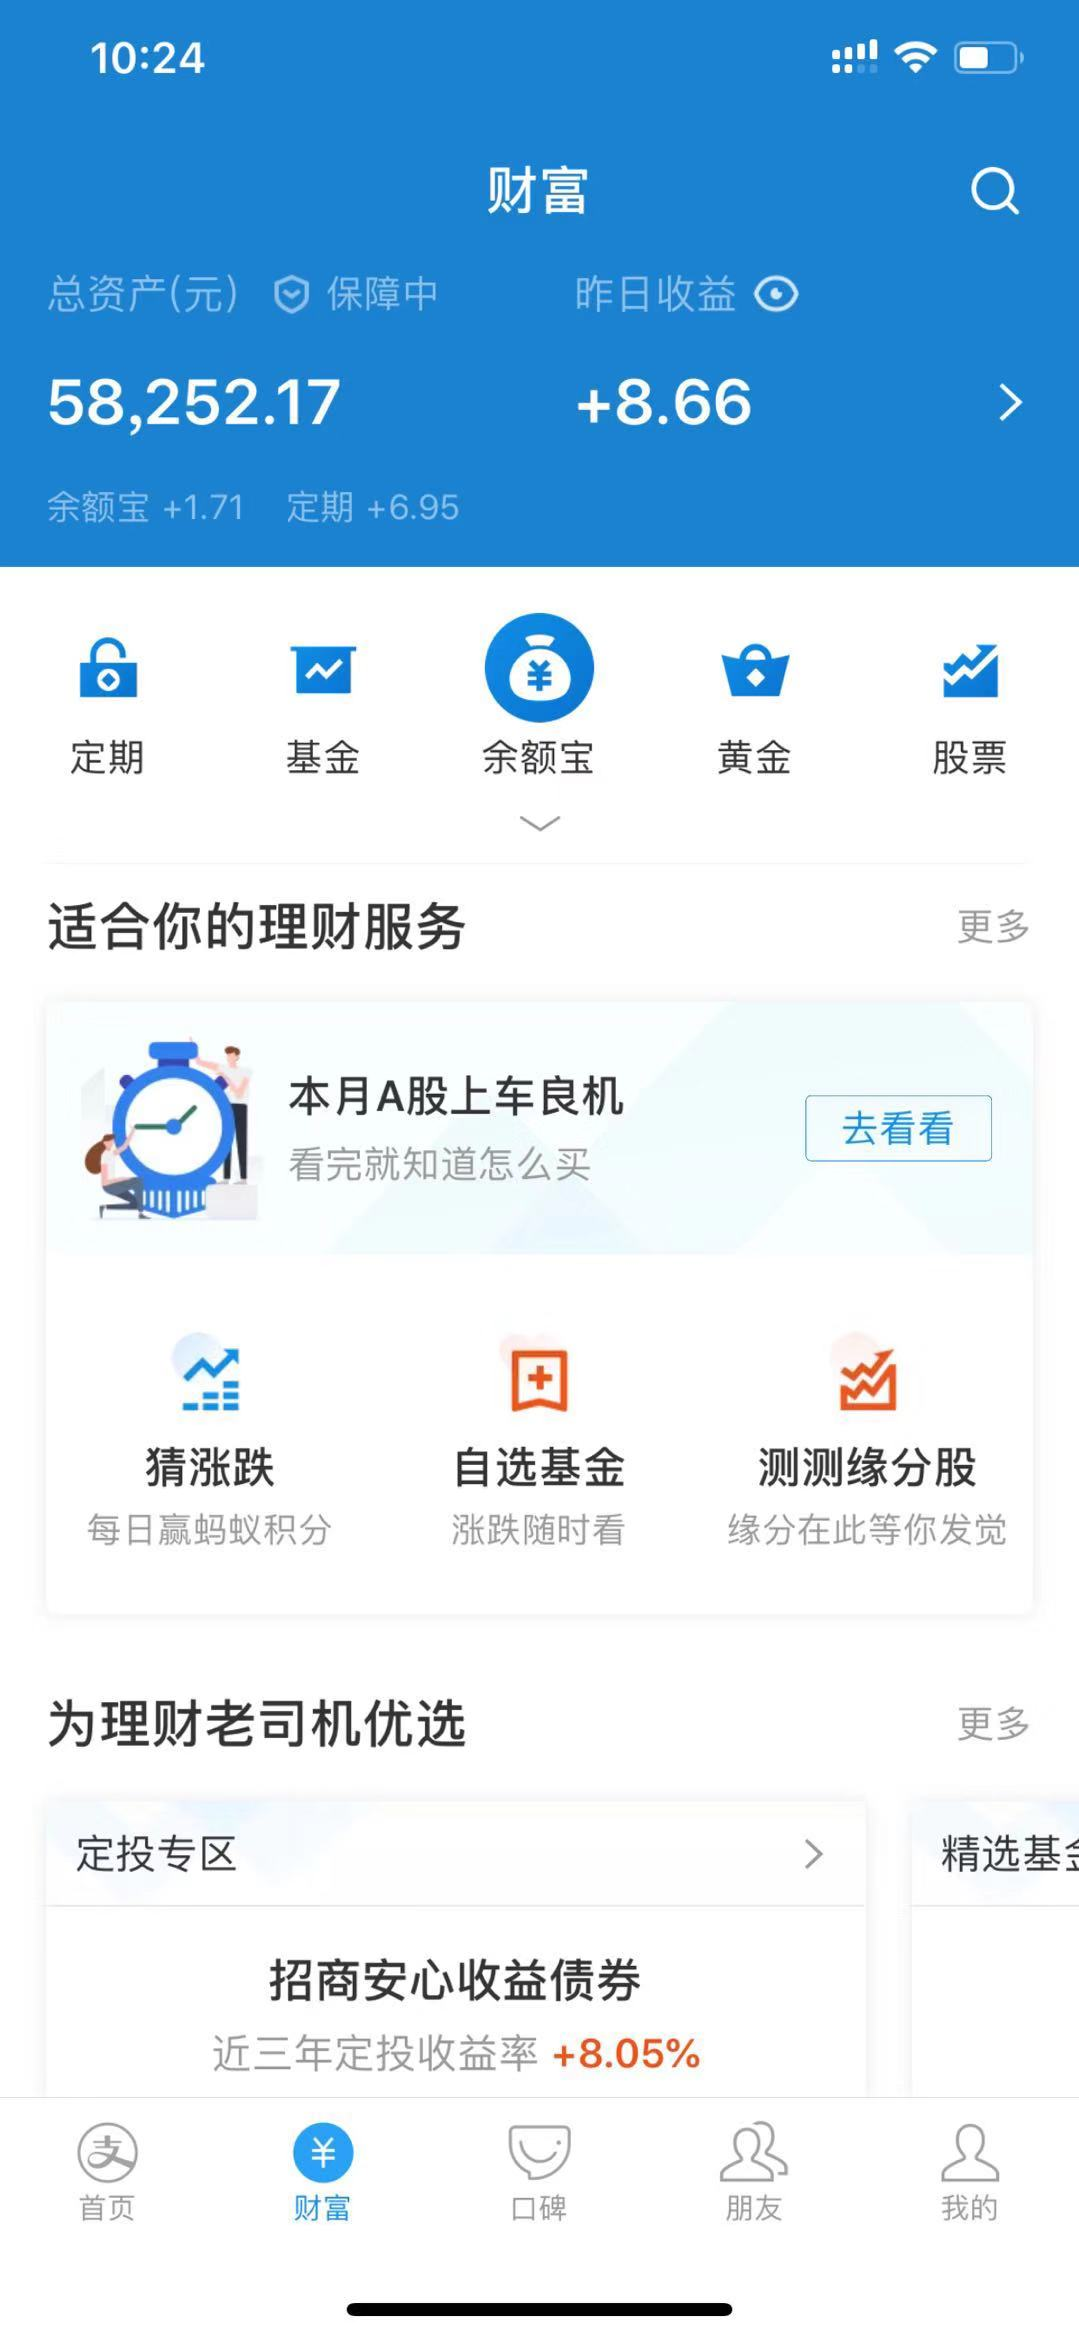
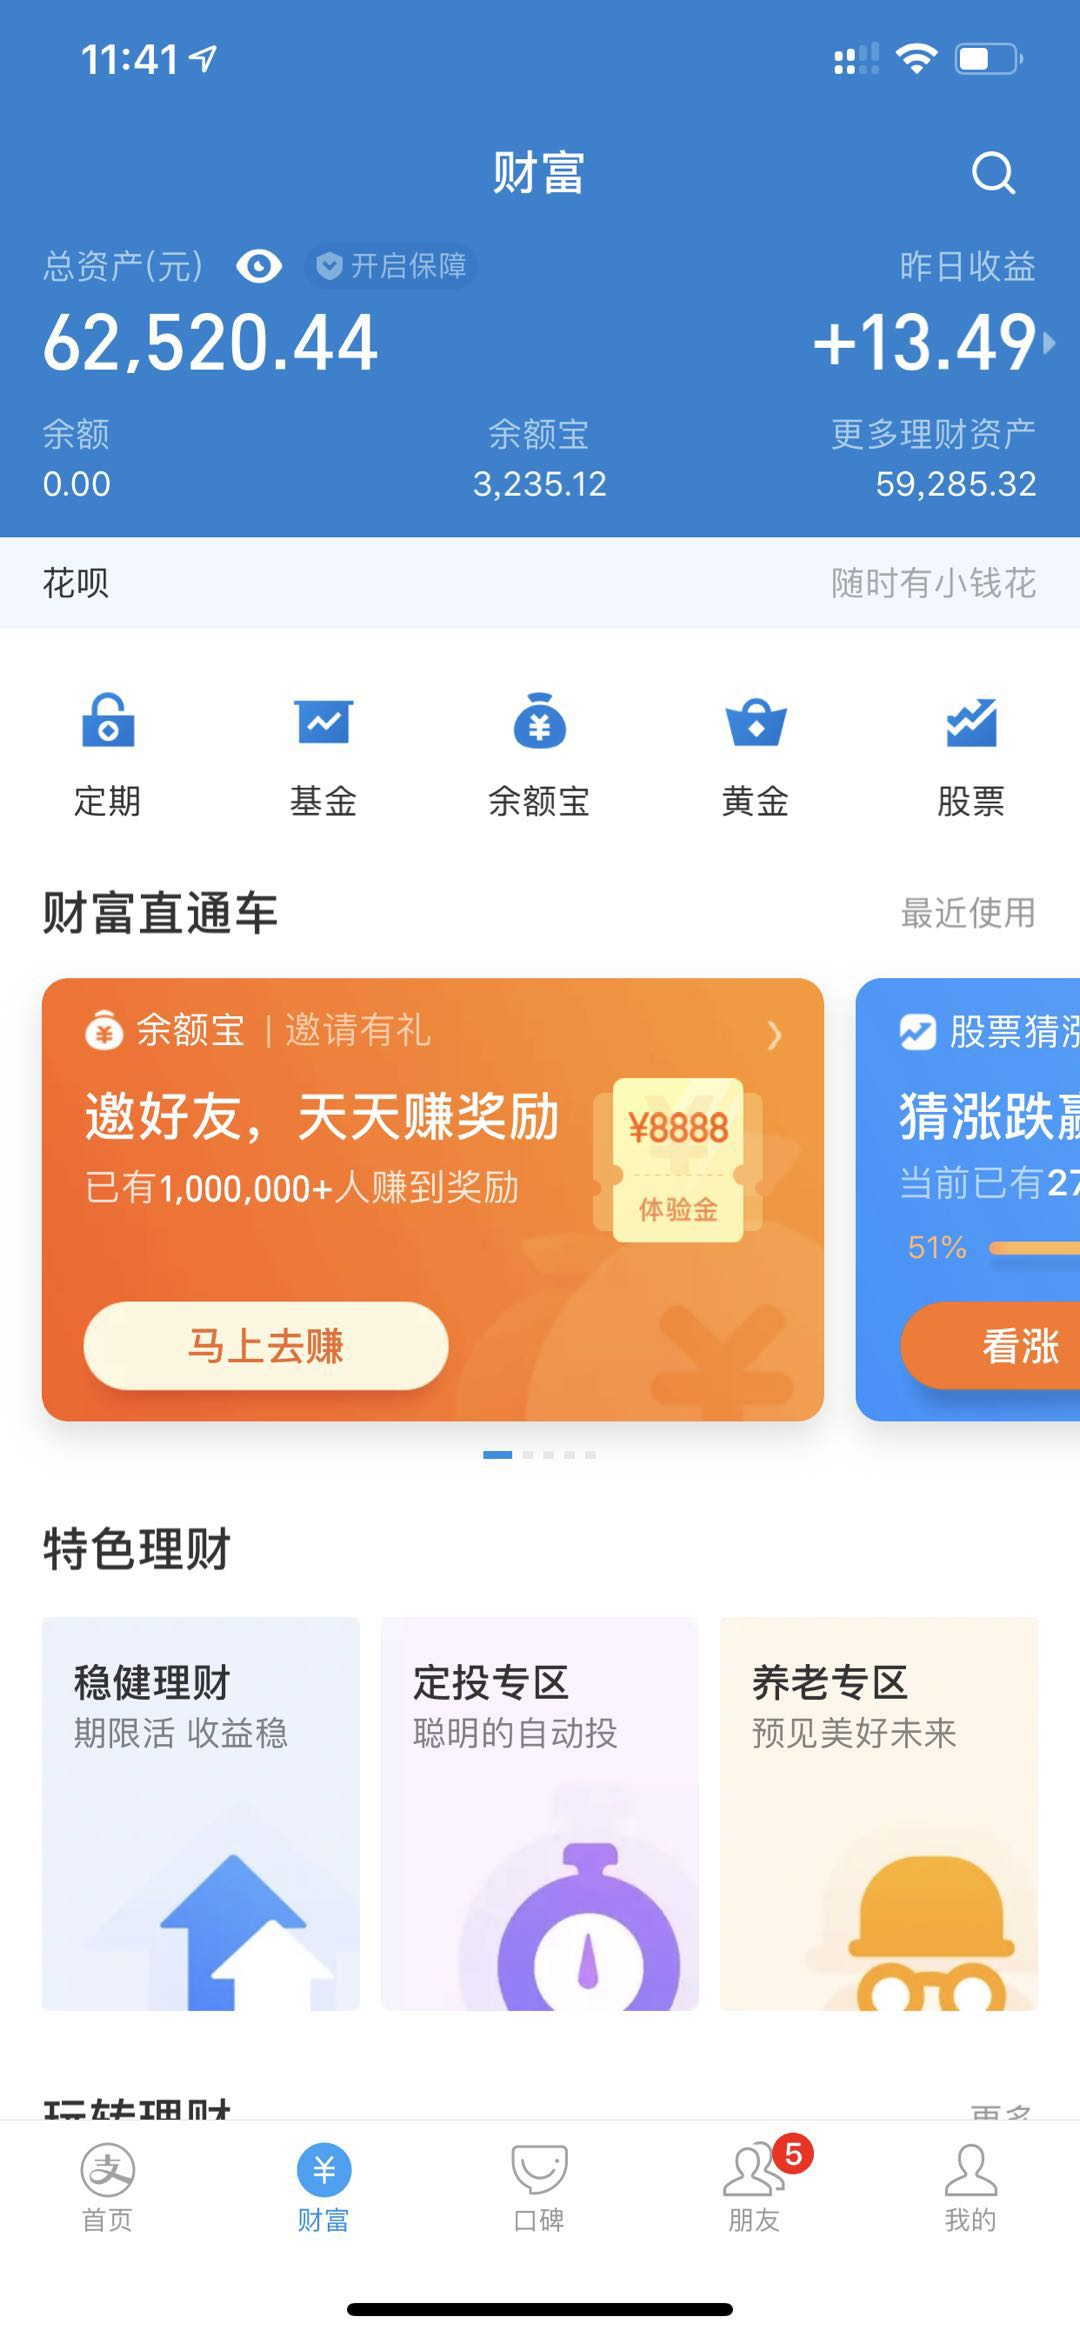
income: 20180325 企业赞助 (贝贝集团) 3000元

diff --git a/README.md b/README.md
@@ -1,6 +1,6 @@
 #  NodeParty 开源基金会运作草案
 
-![](https://img.shields.io/badge/余额-58252.17%20元-green.svg) ![](https://img.shields.io/badge/赞助笔数-47%20笔-green.svg) 
+![](https://img.shields.io/badge/余额-62520.44%20元-green.svg) ![](https://img.shields.io/badge/赞助笔数-48%20笔-green.svg) 
 
 ## 组织介绍
 
@@ -145,7 +145,8 @@ Commit Message 需按照此格式：
 44 | @第七期 NodeParty 讲师团&特别赞助 | 7074.00 | 2018-09-23 | 组织赞助 | [#61](https://github.com/Hangzhou-Node-Party/JS-OpenSource-Foundation/issues/61)
 45 | @Rokid | 5000.00 | 2018-11-20 | 企业赞助+冠名 | [#62](https://github.com/Hangzhou-Node-Party/JS-OpenSource-Foundation/issues/62)
 46 | @Coding.net | 2000.00 | 2018-12-05 | 企业赞助 | [#63](https://github.com/Hangzhou-Node-Party/JS-OpenSource-Foundation/issues/63)
-47 | @第八期 NodeParty 讲师团&特别赞助 | 4995.94 | 2018-12-10 | 组织赞助 | [#63](https://github.com/Hangzhou-Node-Party/JS-OpenSource-Foundation/issues/64)
+47 | @第八期 NodeParty 讲师团&特别赞助 | 4995.94 | 2018-12-10 | 组织赞助 | [#64](https://github.com/Hangzhou-Node-Party/JS-OpenSource-Foundation/issues/64)
+48 | @贝贝集团 | 3000.00 | 2019-03-25 | 公司赞助 | [#65](https://github.com/Hangzhou-Node-Party/JS-OpenSource-Foundation/issues/65)
 
 ## 支出记录
 
@@ -164,9 +165,11 @@ Commit Message 需按照此格式：
 ![](https://img.shields.io/badge/数澜科技-5000元-green.svg)
 ![](https://img.shields.io/badge/100offer-6000元-green.svg)
 ![](https://img.shields.io/badge/又拍云-3000元-green.svg)
+![](https://img.shields.io/badge/贝贝集团-3000元-green.svg)
 ![](https://img.shields.io/badge/Coding.net-5000元-green.svg)
 ![](https://img.shields.io/badge/掘金-2000元-green.svg)
 ![](https://img.shields.io/badge/轻山科技-2000元-green.svg)
+
 
 [<img src="./img/shulan_logo.jpg" width=150/>](https://www.dtwave.com)
 [<img src="./img/juejin_logo.png" width=150/>](https://juejin.im)
@@ -174,6 +177,7 @@ Commit Message 需按照此格式：
 [<img src="./img/coding.png" width=150/>](https://coding.net)
 [<img src="./img/qingshan_logo.png" width=150/>](http://bbdk.xiaoxinjin.com/)
 [<img src="./img/youpai_logo.png" width=150/>](https://www.upyun.com/)
+[<img src="./img/beibei_logo.png" width=150/>](https://www.beibei.com.cn/)
 
 感谢以下开源组织或个人组织的赞助：
 
@@ -209,9 +213,9 @@ Commit Message 需按照此格式：
 <!-- money start -->
 | 款项 | 金额 |
 |------|------|
-| **总收入** | 67123.5 元 |
+| **总收入** | 72771.53 元 |
 | **总支出** | 10251.09 元 |
-| **余额** | 58252.17 元 |
+| **余额** | 62520.44 元 |
 | **待入账** | 0 元 |
 <!-- money end -->
 
